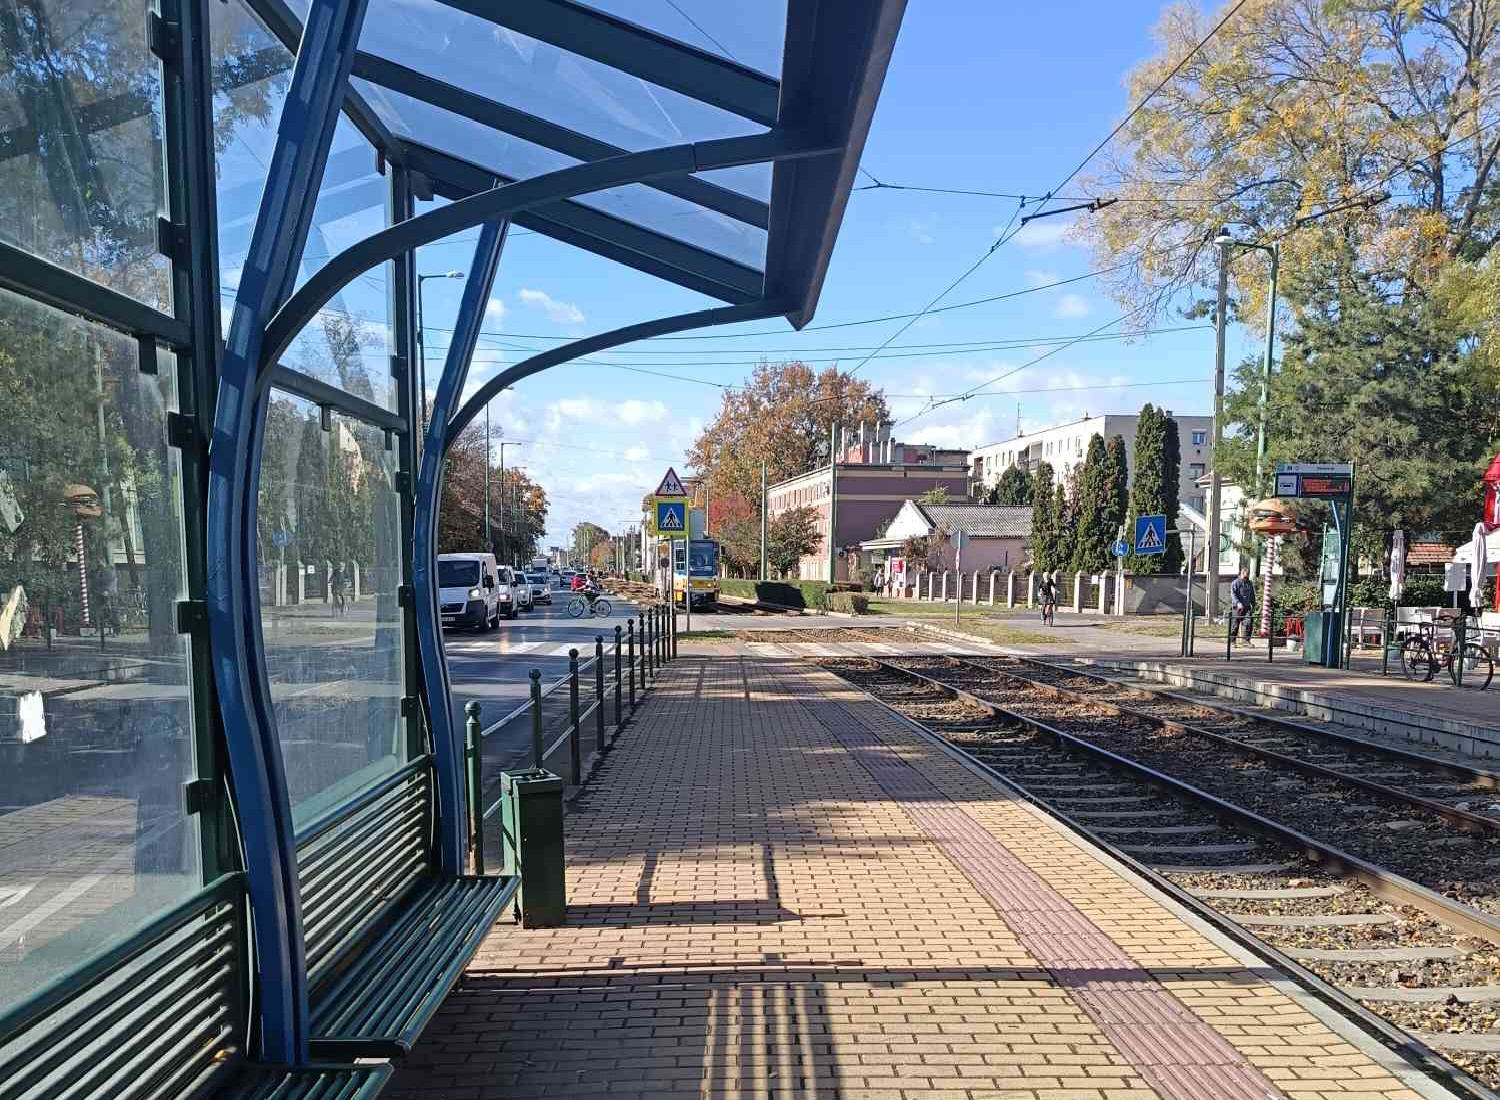
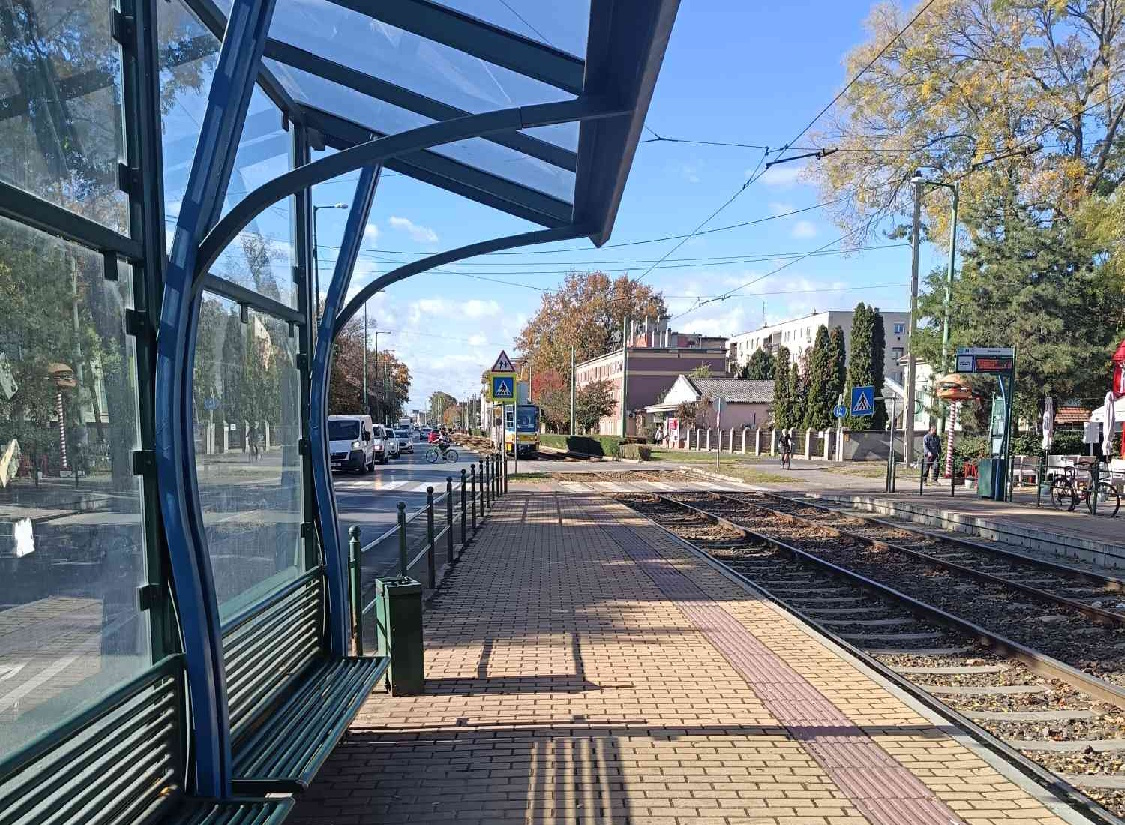
a

diff --git a/woof/városszociológiaprojekt.html b/woof/városszociológiaprojekt.html
@@ -121,7 +121,7 @@
         }
         .video-player {
             width: 100%;
-            height: 400px;
+            height: 600px;
             object-fit: cover;
             display: block;
         }